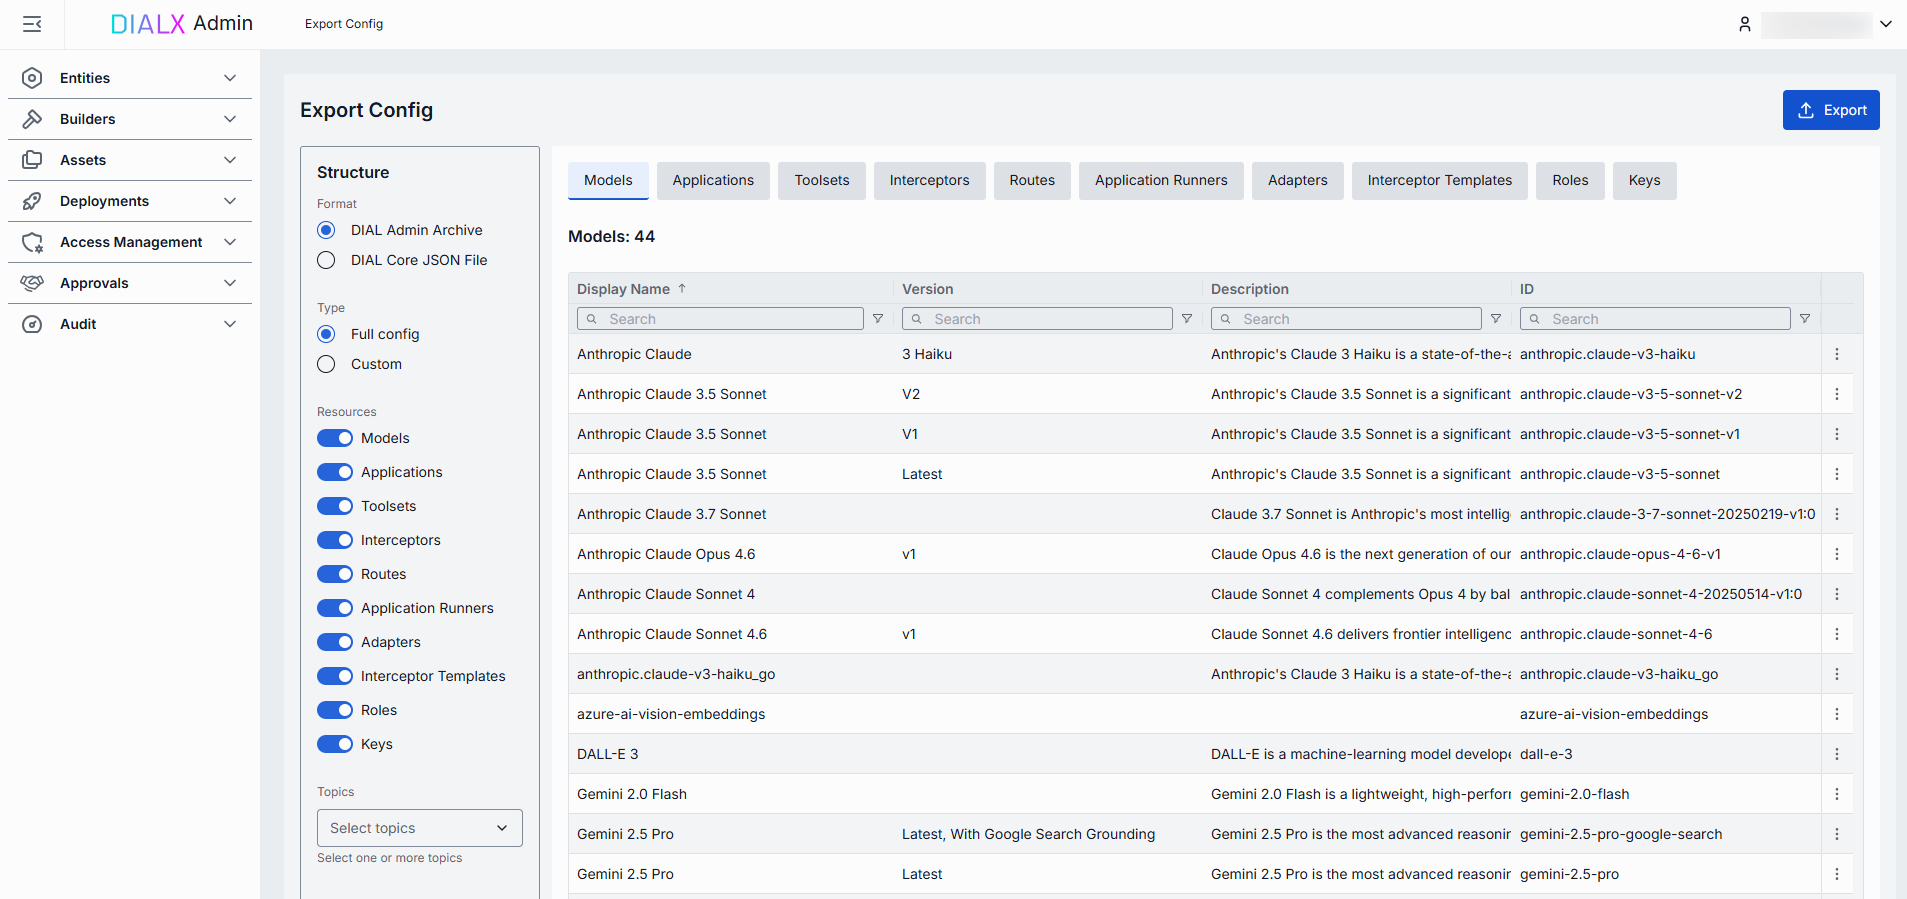
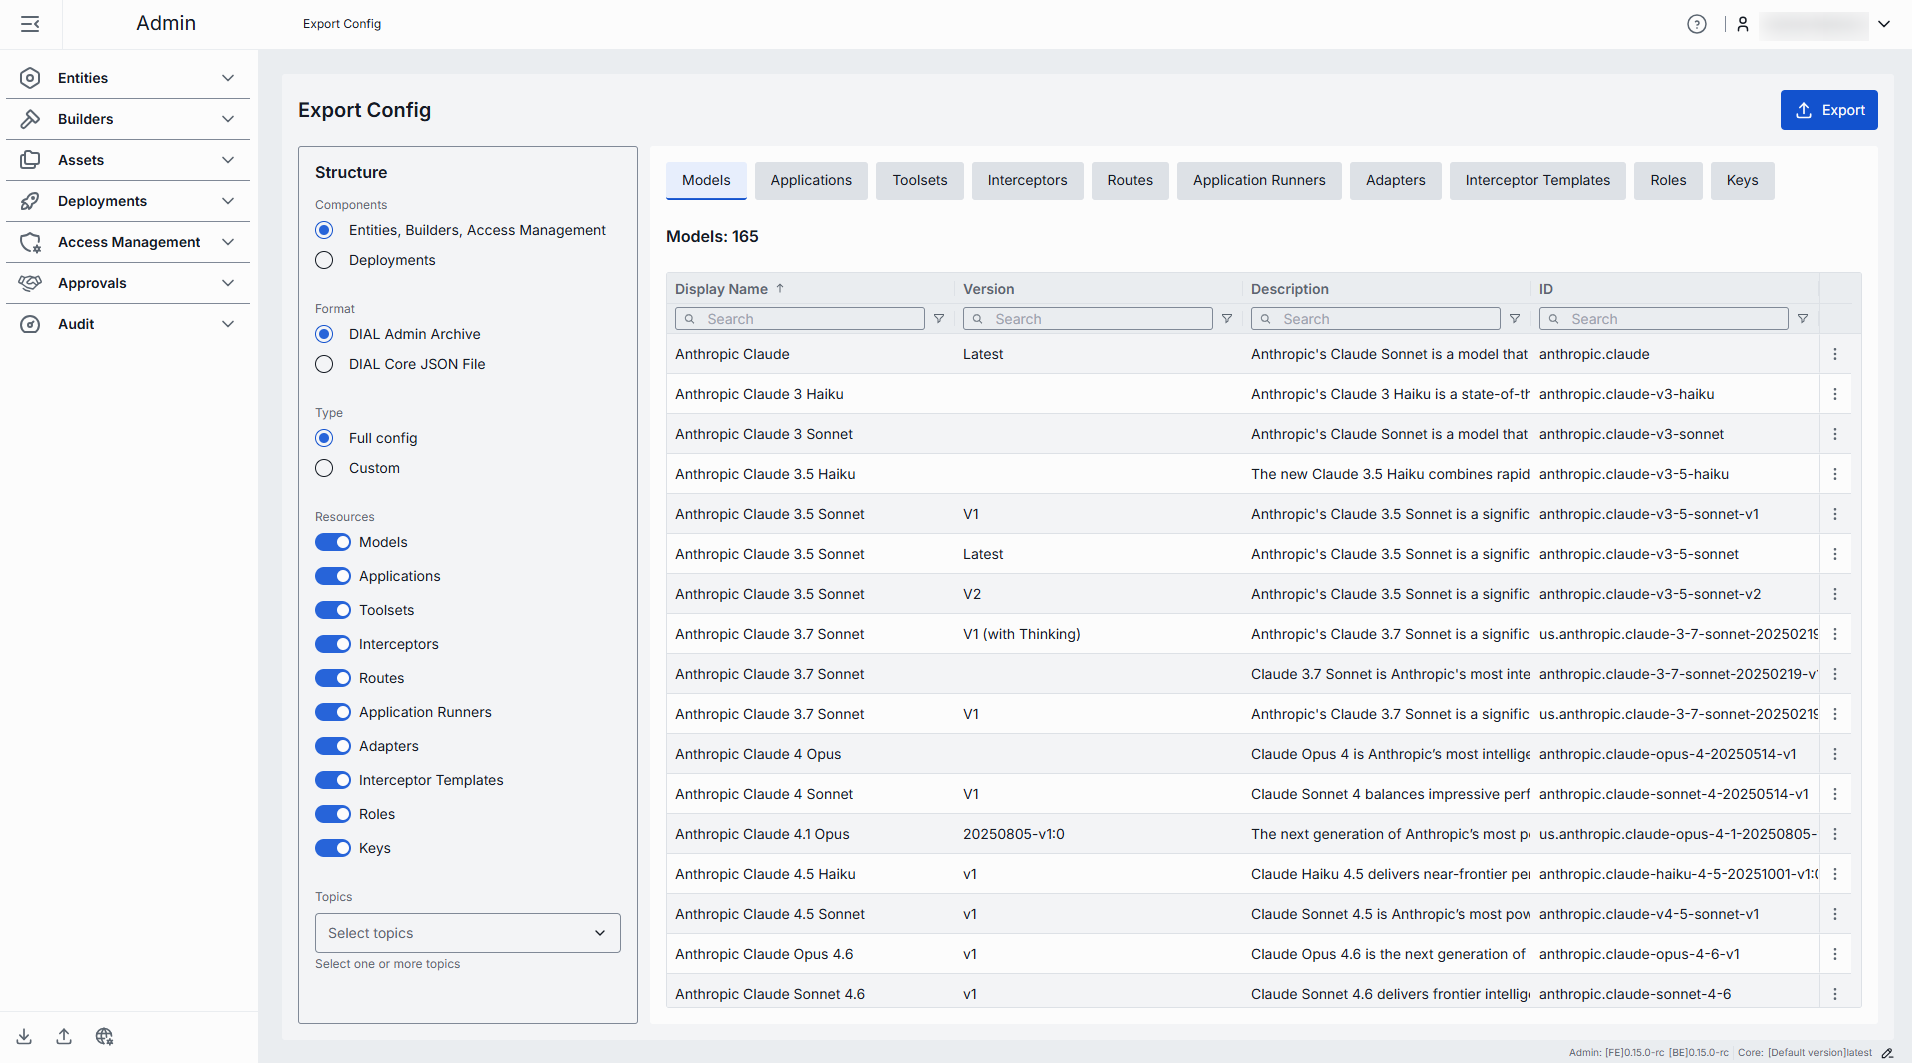
FE ticket 1877

diff --git a/docs/tutorials/3.admin/home.md b/docs/tutorials/3.admin/home.md
@@ -74,23 +74,40 @@ Use the **Import Config** button to upload a DIAL Core configuration file. Can b
 
 ![](img/img_57.png)
 
-1. Select the export format:
+#### Export Deployments
+
+You can export configuration of the selected deployments (Model Servings, Images, MCP, Interceptor and Adapter Containers)
+
+1. Select **Deployments** in **Components**.
+2. Add deployments you want to export.
+3. Use **Include secrets** toggle on the Export Preview screen to export `.zip` archive with configuration files and secrets stored separately. Secrets are always included.
+4. Review the artefacts and click **Export** to download a `.zip` archive.
+
+![](img/export-deployments-config.png)
+
+#### Export Entities, Builders, Access Management
+
+You can export configuration of the selected Entities (Models, Applications, Toolsets, Interceptors, Routes), Builders (Application Runners, Adapters, Interceptor Templates) and Access Management configurations (API keys and Roles)
+
+1. Select **Entities, Builders, Access Management** in **Components**.
+2. Select components you want to export.
+3. Select the export format:
    * **DIAL Admin Archive** — `.zip` archive with the configuration stored as a single `.json` file. Includes secrets if the **Include secrets** option is selected.
    * **DIAL Core JSON File** — a single `.json` file compatible with DIAL Core. Includes secrets if the **Include secrets** option is selected.
-2. Select the export type: Config can be exported partially (user-selected artefacts) or in full.
+4. Select the export type: Config can be exported partially (user-selected artefacts) or in full.
    * **Full**: When this option is selected, use Resources toggles to enable/disable specific categories of resources you want to export.
-   * **Custom**: When this option is selected, use tabs with resources where you can manually select what entities in each category you want to include. When exporting a Custom config type, dependencies can be included or ignored for Models, Applications, Roles, and Keys.
+   * **Custom**: When this option is selected, use tabs with resources where you can manually select what entities in each category you want to include. When exporting a Custom config type, dependencies (e.g. adapters, interceptors, applications, application runners etc. required by the selected resource to operate) can be included or ignored.
       - **Include dependencies** adds all referenced items required by the selected artefacts.
       - **Ignore dependencies** exports only the items you explicitly select.
 
       ![](img/126.png)
 
-3. Use **Topics** to filter out resources associated with the selected topic(s).
-4. Click **Export** to open up the Export File Preview screen, where you can:
+5. Use **Topics** to filter out resources associated with the selected topic(s).
+6. Click **Export** to open up the Export File Preview screen, where you can:
 
    1. Preview your selections and any included dependencies.
    2. Use **Include secrets** toggle on the Export Preview screen to export `.zip` archive with configuration files and secrets stored separately. Secrets are always included.
-   3. Review the artefacts and confirm the export.
+   3. Review the artefacts and click **Export** to download a `.zip` archive.
 
       ![](img/127.png)
 
